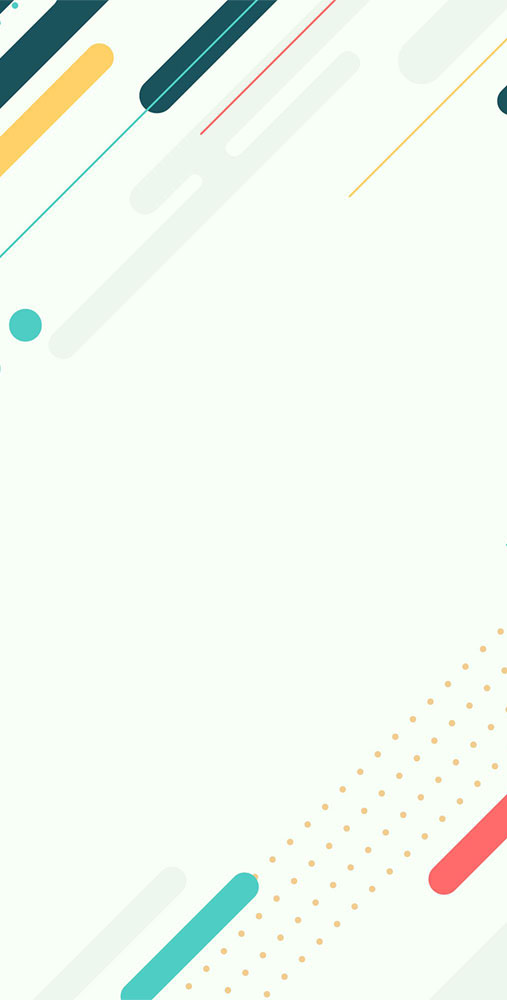
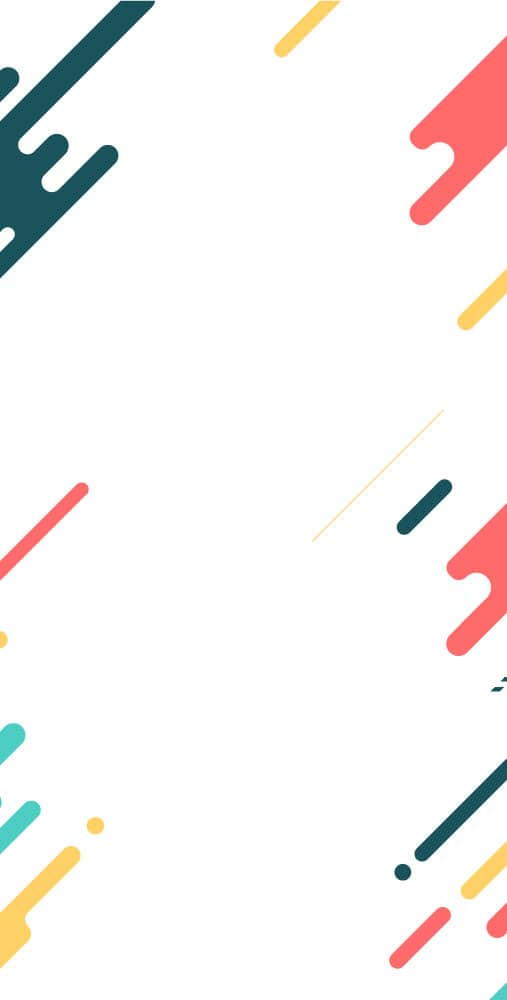
file changes

diff --git a/public/assets/css/style.css b/public/assets/css/style.css
@@ -3668,6 +3668,25 @@ a:focus {
 /* --- Theme 7 End--- */
 
 
+/* --- Theme 8 Start--- */
+
+.toolbar-theme-8 {
+    --toolbar-header-bg-color: #d19300;
+    --toolbar-header-text-color: #ffffff;
+    --toolbar-button-bg-color: transparent;
+    --toolbar-button-border-color: #ffffff;
+    --toolbar-button-text-color: #ffffff;
+    --toolbar-button-bg-hover-color: #d19300;
+    --toolbar-button-border-hover-color: #d19300;
+    --toolbar-button-text-hover-color: #ffffff;
+    --toolbar-social-color: #d19300;
+    --toolbar-logo-bg-color: #ffffff;
+}
+
+
+/* --- Theme 8 End--- */
+
+
 /*==========Toolbar Themes CSS End==========*/
 
 
@@ -3722,6 +3741,9 @@ a:focus {
     }
     .preview_img_theme_7_back {
         background-image: url('../images/preview_img_theme_7_des.jpg') !important;
+    }
+    .preview_img_theme_8_back {
+        background-image: url('../images/preview_img_theme_8_des.jpg') !important;
     }
 }
 

diff --git a/resources/views/new/toolbar.blade.php b/resources/views/new/toolbar.blade.php
@@ -14,7 +14,7 @@
         </div>
     </div>
     <div class="toolbar-content-box">
-        <div class="toolbar-mobile-frame back-img" style="background-image: url({{ asset('assets/images/preview_img_theme_7_mob.jpg') }});">
+        <div class="toolbar-mobile-frame back-img" style="background-image: url({{ asset('assets/images/preview_img_theme_2_mob.jpg') }});">
         <!-- <div class="toolbar-mobile-frame back-img" style="background-image: linear-gradient(to bottom, #0f2027, #162c35, #1d3944, #244654, #2c5364);"> -->
             <div class="toolbar-mobile-frame-inr">
                 @include('new.toolbar_content')

diff --git a/resources/views/viewuser.blade.php b/resources/views/viewuser.blade.php
@@ -4,7 +4,7 @@
 <div class="body-wp">
 
     <section class="page-view-section">
-        <div class="toolbar-mf-bg preview_img_theme_7_back back-img" style="background-image: url({{ asset('assets/images/preview_img_theme_1_mob.jpg') }});"></div>
+        <div class="toolbar-mf-bg preview_img_theme_2_back back-img" style="background-image: url({{ asset('assets/images/preview_img_theme_8_mob.jpg') }});"></div>
         <div class="sec-wp">
             <div class="container">
                 <div class="row">

diff --git a/resources/views/new/toolbar_content.blade.php b/resources/views/new/toolbar_content.blade.php
@@ -1,4 +1,4 @@
-<div class="toolbar-mf-theme-default toolbar-theme-7">
+<div class="toolbar-mf-theme-default toolbar-theme-2">
     <div class="toolbar-mf-box">
         <div class="toolbar-mf-header">
             <div class="toolbar-mf-prof-image back-img" style="background-image: url({{ asset('assets/images/default-profile-picture.png') }});"></div>
